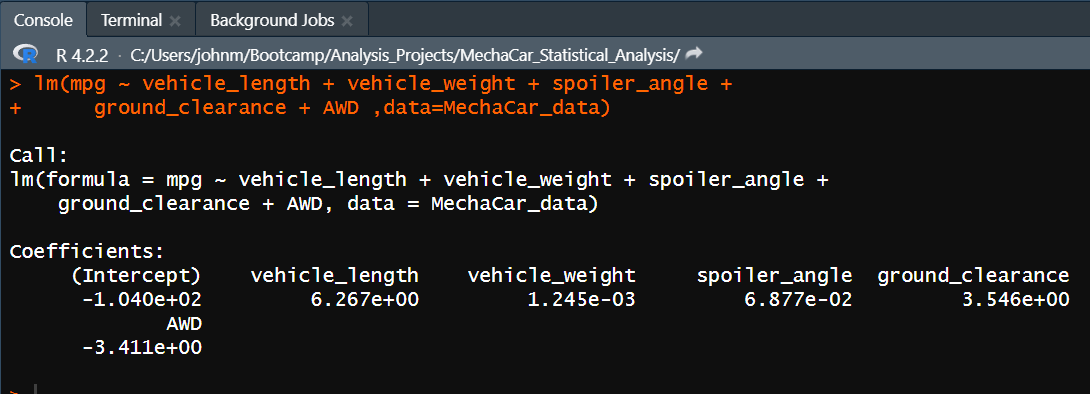
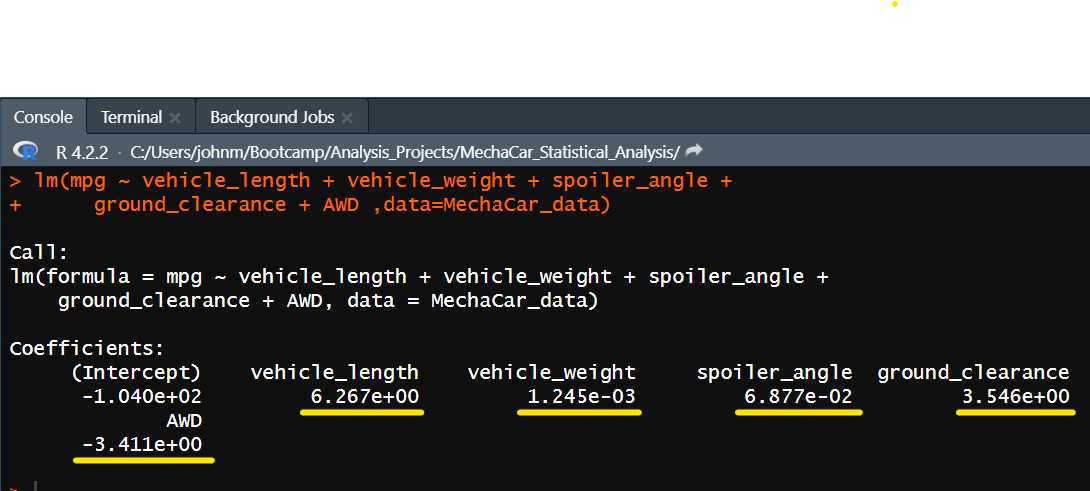
modified readme and lm image

diff --git a/README.md b/README.md
@@ -4,13 +4,13 @@
 ## Linear Regression to Predict MPG
 ### Output from the linear regression model using multiple independent variables
 ![This is an image](Images/mpg_lm.png)
-Here we can see the slope cefficients (r-values) of the five independent variables. Vehicle weight and spoiler angle are considered to have no to very weak correlation to fuel efficiency (mpg) since their absolute values are less than 0.3. Vehicle length, ground clearance, and AWD are considered to have strong correlations to fuel efficiency since their absolute values are greater than 0.7. 
+Above are the slope cefficients (r-values) of the five independent variables. Vehicle weight and spoiler angle are considered to have no, or very weak correlation, to fuel efficiency (mpg) since their absolute values are less than 0.3. Vehicle length, ground clearance, and AWD are considered to have strong correlations to fuel efficiency since their absolute values are greater than 0.7. 
 
-### Some summary statistics of the linear regression model
+### Summary statistics of the linear regression model
 ![This is an image](Images/mpg_lm_summary.png)
 The above Pr(>|t|) values represent the probability that each coefficient contributes a random amount of variance to the linear model. Since the Pr(>|t|) values are very low for vehicle length and ground clearance, they are statistically likely to provide non-random amounts of variance to the linear model. In other words, vehicle length and ground clearance are likely to have a significant impact on fuel efficiency.
 
-The r-squared value (~0.71) means that around 71% of all mpg predictions will be correct when using this linear model. The p-value of 5.35e-11 is much less than 0.05% (significance level) which means that the slope of our linear model is not zero.
+The r-squared value (~0.71) means that around 71% of all mpg predictions will be correct when using this linear model. The p-value of 5.35e-11 is much less than 0.05% (significance level), which means that the slope of our linear model is not zero.
 
 
 ## Summary Statistics on Suspension Coils
@@ -21,7 +21,7 @@ The r-squared value (~0.71) means that around 71% of all mpg predictions will be
 ### Suspension Coil PSI Summary for Individual Lots
 ![This is an image](Images/lot_summary.png)
 
-The design specifications for the MechaCar suspension coils dictate that the variance of the suspension coils must not exceed 100 pounds per square inch. The variance for all lots combined fall within the acceptable variance range, but the variance for Lot 3 (170PSI) far exceeds the 100PSI limit.
+The design specifications for the MechaCar suspension coils dictate that the variance of the suspension coils must not exceed 100 pounds per square inch. The variance for all lots combined falls within the acceptable variance range. However, the individual variance for Lot 3 (170PSI) far exceeds the 100PSI limit.
 
 
 ## T-Tests on Suspension Coils
@@ -32,22 +32,22 @@ The p-value is 0.060 which implies the mean PSI for all lots is statistically si
 ![This is an image](Images/t-test_all_lots.png)
 
 ### T-test for Lot 1
-The is p-value is 1.0, so the mean for Lot 1 is also statistically similar to the population.
+The p-value is 1.0, so the mean for Lot 1 is also statistically similar to the population.
 ![This is an image](Images/t-test_lot1.png)
 
 ### T-test for Lot 2
-Here again, The Lot 2 mean is statistically similar to the population.
+Here again, the Lot 2 mean is statistically similar to the population.
 ![This is an image](Images/t-test_lot2.png)
 
 ### T-test for Lot 3
-For Lot 3, the p-value is 0.042 and below the significance value. So there IS a significant statistical variation between these two means and these suspension coils could be a source of the production troubles.
+For Lot 3, the p-value is 0.042 and below the significance value so there **is a significant statistical variation** between these two means. There could be production troubles in Lot 3 that are causing this variance.
 ![This is an image](Images/t-test_lot3.png)
 
 
 ## Study Design: MechaCar vs Competition
 A study could be developed to compare ratings from popular car review websites to look for statistical variances among commonly shopped categories. For a consumer, these variances could be setting the MechaCar apart from the competition in either a positive or negative way.
 
-Some important features that consumers value when purcahasing a new vehicle are price, fuel efficiency, and safety ratings. Data from these categories could potentially be extracted from popular review websites (e.g., Consuner Reports).
+Some important features that consumers value when purcahasing a new vehicle are price, fuel efficiency, and safety ratings. Fuel efficiency and safety data could potentially be extracted from popular review websites (e.g., Consumer Reports). Current price data could possibly be extracted from sites like Kelley Blue Book or various dealership websites.
 
 For each category, a null hypothesis and alternative hypothesis would be created.
   - **Null hypothesis**: Within this category, the MechaCar does not vary in a statistically significant way from the competition.
